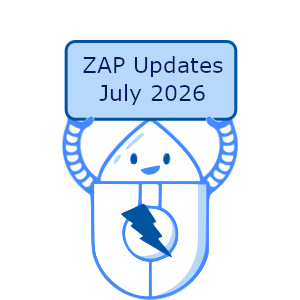
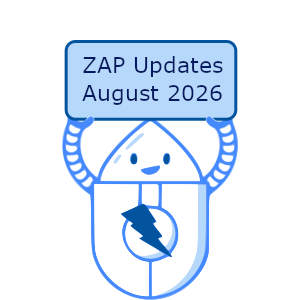
Update site content
From:
zaproxy/zaproxy-website@2a0e47dee2cd2435261d1f6715c827edcac8430c

Changed region(s): [[0.27, 0.27, 0.75, 0.36]]

diff --git a/blog/index.html b/blog/index.html
@@ -136,7 +136,7 @@
               <div class="col-1-4">
                  
                   
-                  <img class="preview-image" src="/blog/2026-09-08-zap-updates-august-2026/images/zapbot-monthly-preview_hu_7e3668129bfb6381.png" width="300" height="300" />  
+                  <img class="preview-image" src="/blog/2026-09-08-zap-updates-august-2026/images/zapbot-monthly-preview_hu_fbfc8d3d856ef120.png" width="300" height="300" />  
                 
              </div>
               <div class="col-3-4 pl-30">
